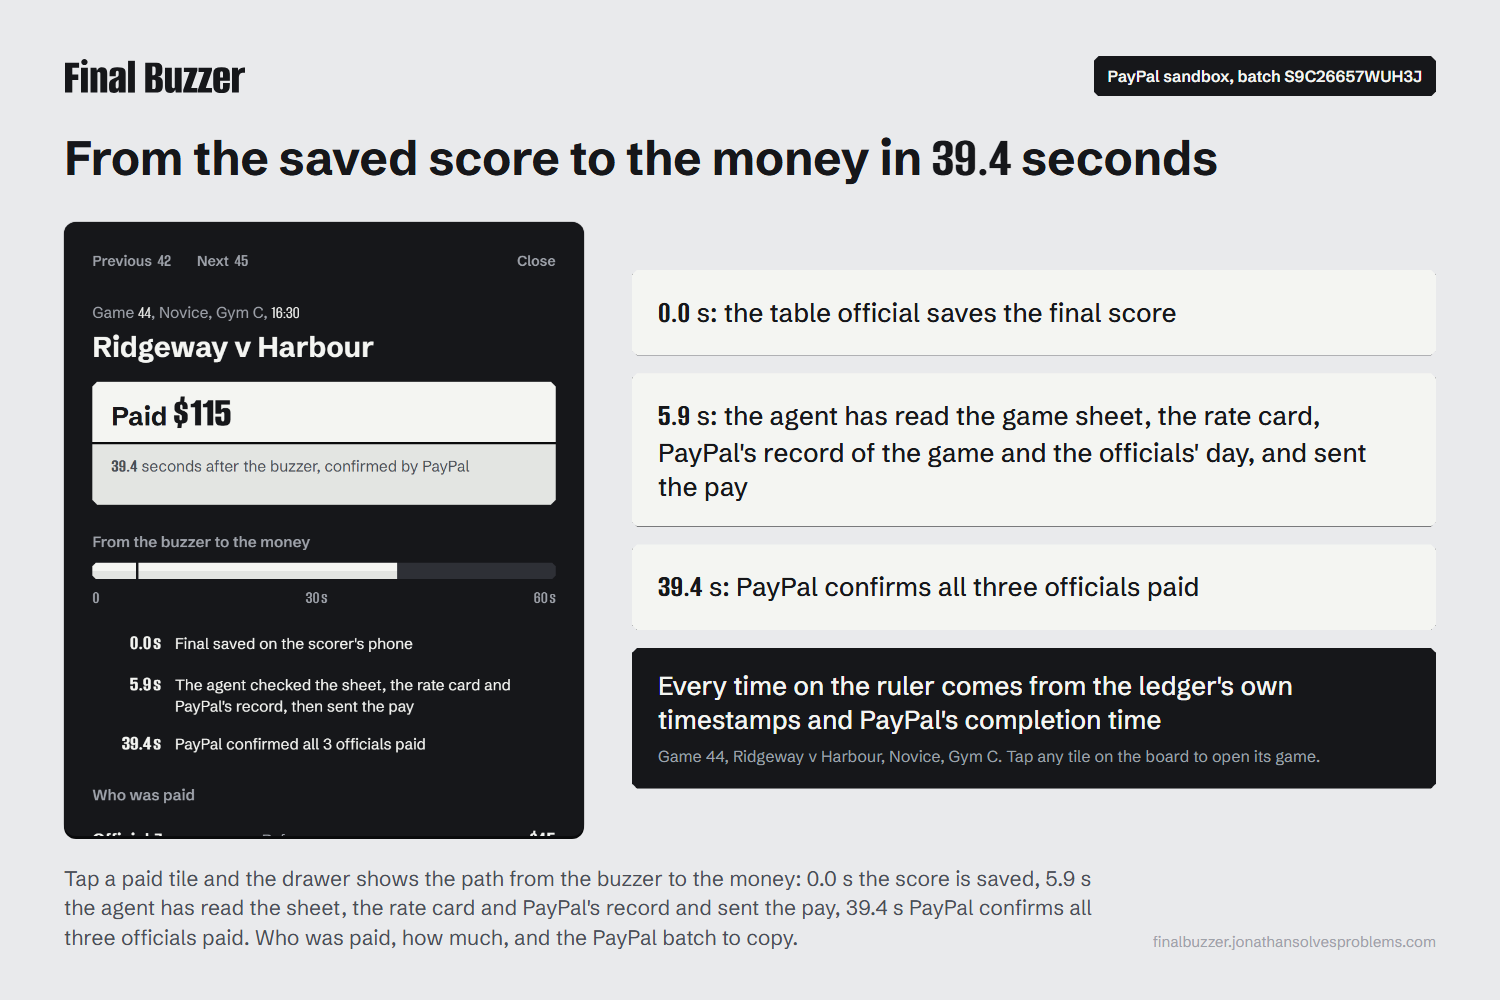
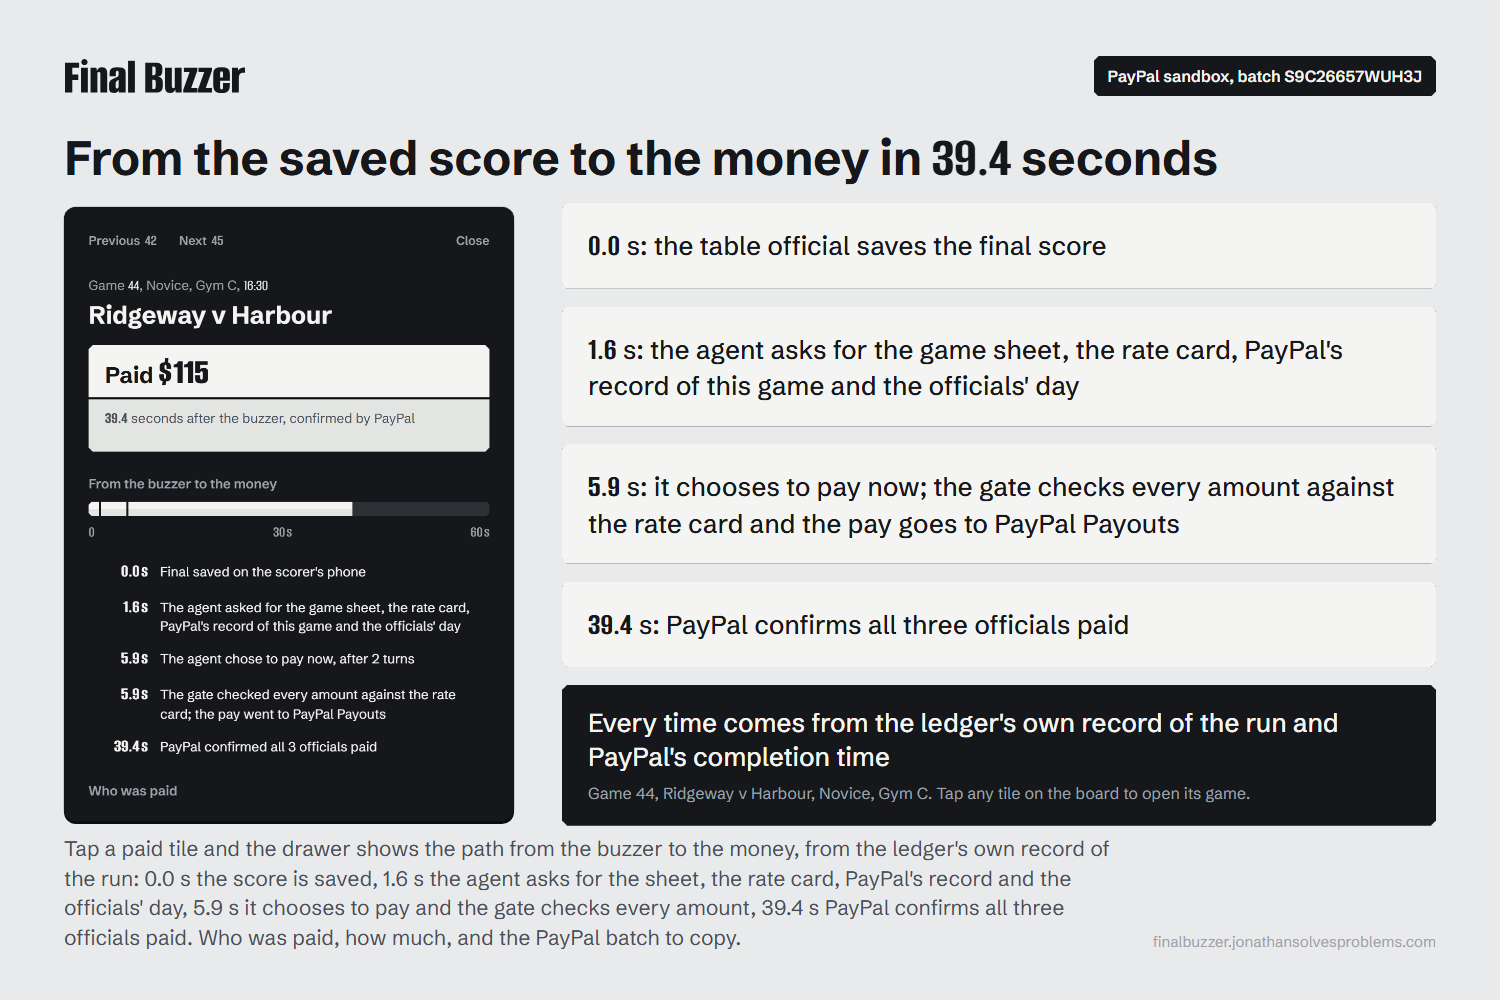
Public checks: a Postman collection against the live site (11 requests, 31 assertions) with its last run committed and tied into check-claims; README on the drawer's agent run; sources for the live 9 November payout and the incumbents

Changed region(s): [[0.0307, 0.186, 0.9813, 0.961]]

diff --git a/src/cli/check-claims.ts b/src/cli/check-claims.ts
@@ -35,6 +35,7 @@ const chase = await readJson("results/chase.json");
 const invoices = await readJson("results/invoices.json");
 const replan = await readJson("results/replan.json");
 const settle = await readJson("results/settle-2026-05-16.json");
+const postman = await read("results/postman-run.txt");
 
 /** Every match of `re` in `text` must carry `want` in its capture groups (null skips a group). */
 function figure(name: string, text: string, re: RegExp, want: Array<number | null>, where: string) {
@@ -93,6 +94,17 @@ if (replan) {
 }
 
 // 3. claims that must never appear
+// the public checks: the README's request and assertion counts, and "0 failures", come from newman's last run
+if (postman) {
+  const plain = postman.replace(/│/g, "|");
+  const req = plain.match(/requests\s*\|\s*(\d+)\s*\|\s*(\d+)/), asr = plain.match(/assertions\s*\|\s*(\d+)\s*\|\s*(\d+)/);
+  if (!req || !asr) say("results/postman-run.txt: newman's summary table was not found");
+  else {
+    figure("postman", readme, /(\d+) requests and (\d+) assertions/g, [num(req[1]), num(asr[1])], "results/postman-run.txt");
+    if ((num(asr[2]) > 0 || num(req[2]) > 0) && /0 failures/.test(readme)) say(`README says 0 failures; results/postman-run.txt records ${asr[2]} failed assertions`);
+  }
+}
+
 const banned: Array<[RegExp, string]> = [
   [/real money|live PayPal|production PayPal/i, "the build runs on sandbox test money only"],
   [/\bno human in the loop\b/i, "Sam is in the loop by design"],

diff --git a/README.md b/README.md
@@ -28,6 +28,8 @@ npm run board     # http://localhost:4173/  the board, /score.html, /money.html
 
 With no keys the board serves the committed results read-only. To have the agent pay live on the PayPal sandbox, add a sandbox app and a Claude key (`copy .env.example .env`, steps in `docs/SANDBOX-SETUP.md`), then run `node src/cli/watch.ts` beside the board and score a game on `/score.html`. A public copy also sets `SAM_PIN` (the board asks for it before a tap pays or a gym closes; scoring stays open) and `MODEL_RUNS_PER_DAY`. Every other command is under [All commands](#all-commands).
 
+The public checks: `npx newman run postman/final-buzzer.postman_collection.json` runs 11 requests and 31 assertions against the live site, read-only (add `--env-var baseUrl=http://localhost:4173` for your own copy): every successful payout carries a PayPal batch id and a completion time, every amount is on the rate card, the agent's run is kept with its payouts, every logged webhook was signature-verified, and Sam's tap and a gym closure are refused without the PIN. The last run is committed as `results/postman-run.txt`, 0 failures.
+
 ## What the agent decides, and where
 
 | Moment | The model chooses between | Code |
@@ -38,6 +40,8 @@ With no keys the board serves the committed results read-only. To have the agent
 | Sam taps a held game | pay in full, pay the show-up fee, pay nobody | `src/agent/resolve.ts` |
 
 The decision is a tool call with a schema (`src/agent/decision.ts`), never prose parsed afterwards. Every decision passes through `src/agent/guards.ts` before PayPal is called: amounts must equal the rate card to the cent, people must be on the sheet, caps hold, and a forfeit or a missing official cannot be paid at full rate by anyone but Sam. A re-plan is re-checked move by move against the schedule's rules (team rest, playoff order, free courts) before anything changes. A blocked decision is recorded as a block, with the reason, never rewritten.
+
+The agent's run stays with the record (`agent` on each ledger payout and hold: what it asked for and when, when it chose). On the board, tapping a paid tile opens the game's drawer with that run on a 60-second ruler: the sheet, the rate card, PayPal's record and the officials' day asked for at about 1.6 s, the choice at about 6 s, the gate's check, and PayPal's confirmation. Records from before this field existed were given theirs from the committed traces (`node src/cli/backfill-agent.ts`).
 
 ## How the money moves
 

diff --git a/devpost/gallery/README.md b/devpost/gallery/README.md
@@ -3,7 +3,7 @@
 Rendered by `tmp/slides/build.py` from live captures and the results files. Upload in this order; paste each caption under its image.
 
 1. **01-board.png**: Saturday's 34 games replayed live through the agent and the PayPal sandbox: 28 paid, 81 officials, $3,145, a median of 40.2 seconds from the saved score to PayPal's confirmation. Every tile is a game and its face is its money state. Live at finalbuzzer.jonathansolvesproblems.com.
-2. **02-drawer.png**: Tap a paid tile and the drawer shows the path from the buzzer to the money: 0.0 s the score is saved, 5.9 s the agent has read the sheet, the rate card and PayPal's record and sent the pay, 39.4 s PayPal confirms all three officials paid. Who was paid, how much, and the PayPal batch to copy.
+2. **02-drawer.png**: Tap a paid tile and the drawer shows the path from the buzzer to the money, from the ledger's own record of the run: 0.0 s the score is saved, 1.6 s the agent asks for the sheet, the rate card, PayPal's record and the officials' day, 5.9 s it chooses to pay and the gate checks every amount, 39.4 s PayPal confirms all three officials paid. Who was paid, how much, and the PayPal batch to copy.
 3. **03-phones.png**: The scorer's page on a phone, and the board's drawer on a phone. Score a game that has not started on the live site and watch its officials get paid; a held game waits for Sam's PIN.
 4. **04-held-17.png**: Game 17's score was saved a second time. The agent read PayPal's record, saw the game paid 31 seconds earlier, and held it with nothing more sent. On the board Sam's only choice is “Right, nothing more”.
 5. **05-held-30.png**: Three games were held for Sam on Saturday: a score saved twice, a forfeit with no fee on the card, and a game with no table official on the sheet. Each shows one sentence and the choices that make sense; the tap pays through the same gate and the same PayPal call as the agent.

diff --git a/devpost/sources.md b/devpost/sources.md
@@ -18,7 +18,9 @@ disagrees. Placeholders are marked as such in the data files and on the board.
 | 52 teams invoiced, 50 paid, 32 reminders, 1 split, 1 released | README, Devpost, the money page | `invoices.json` (`records`), `chase.json` (`outcomes`) |
 | 9 of 10 games moved, 1 cannot be played, 2 refunds of $175 | README, Devpost | `replan.json` |
 | First live payout, game 17, 40.2 s, 2 November 2026 | README | `first-live-run.json` |
-| Live payouts on the public site: game 10 in 40.6 s (3 November), game 1 in 39.2 s (7 November) | the board, the money page | the deployed ledger, `/api/ledger` |
+| Live payouts on the public site: game 10 in 40.6 s (3 November), game 1 in 39.2 s (7 November), Friday's game g002 in 41.2 s with five signature-verified payout webhooks (9 November, batch YYXSX844BZZ5J) | the board, the money page, Devpost | the deployed ledger, `/api/ledger`; `/api/webhooks` |
+| The agent's run on each payout and hold (the reads at about 1.6 s, the choice at about 6 s) | the drawer on the board | `agent` on each ledger record, written by `buzzer.ts`; older records backfilled from `results/agent-runs.json` (extracted from the committed traces) |
+| The public checks: requests and assertions against the live site, 0 failures | README, Devpost | `postman/final-buzzer.postman_collection.json`, last run `results/postman-run.txt` |
 | $4,025 paid to officials across all days | the money page | the deployed ledger, `/api/ledger` |
 | About $1.40 and $2.25 of model cost | README | token counts in `buzzer-replay.json` and `chase.json` at the model's list price: an estimate, not a measurement |
 
